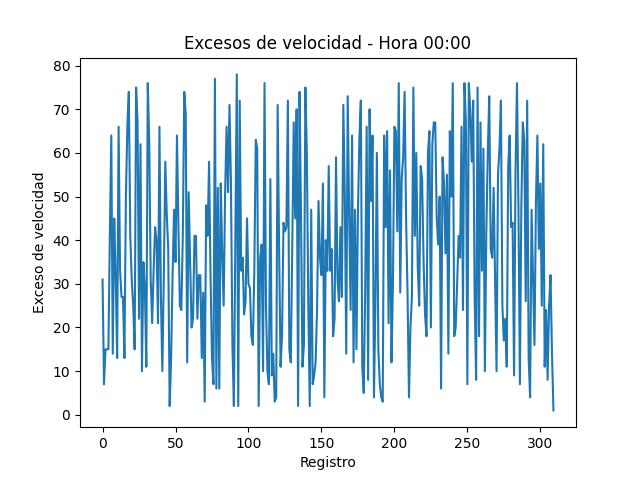
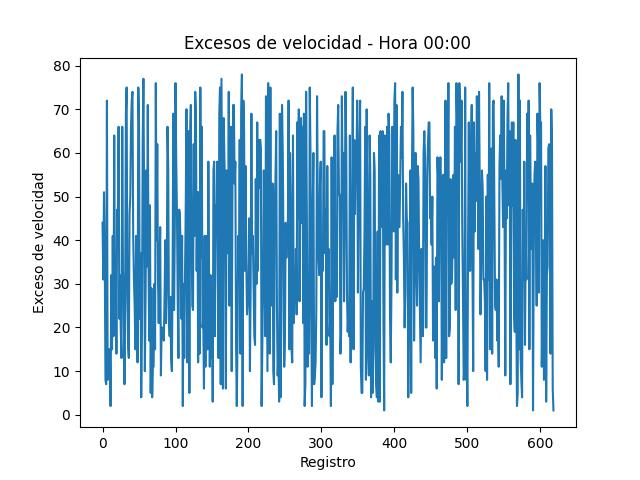
Día 5 - Generación y exportación de gráficos

diff --git a/CHANGELOG.md b/CHANGELOG.md
@@ -24,3 +24,9 @@
 - Obtención de rankings de patentes y horarios
 - Cálculo de excesos promedio
 - Conteo de multas por ubicación
+
+## Día 5
+- Generación de gráficos de reincidencia de patentes
+- Visualización del porcentaje de infracciones por hora
+- Gráfico de infracciones por mes
+- Gráficos de excesos de velocidad para hora 00:00 y fecha 1932-01-01
